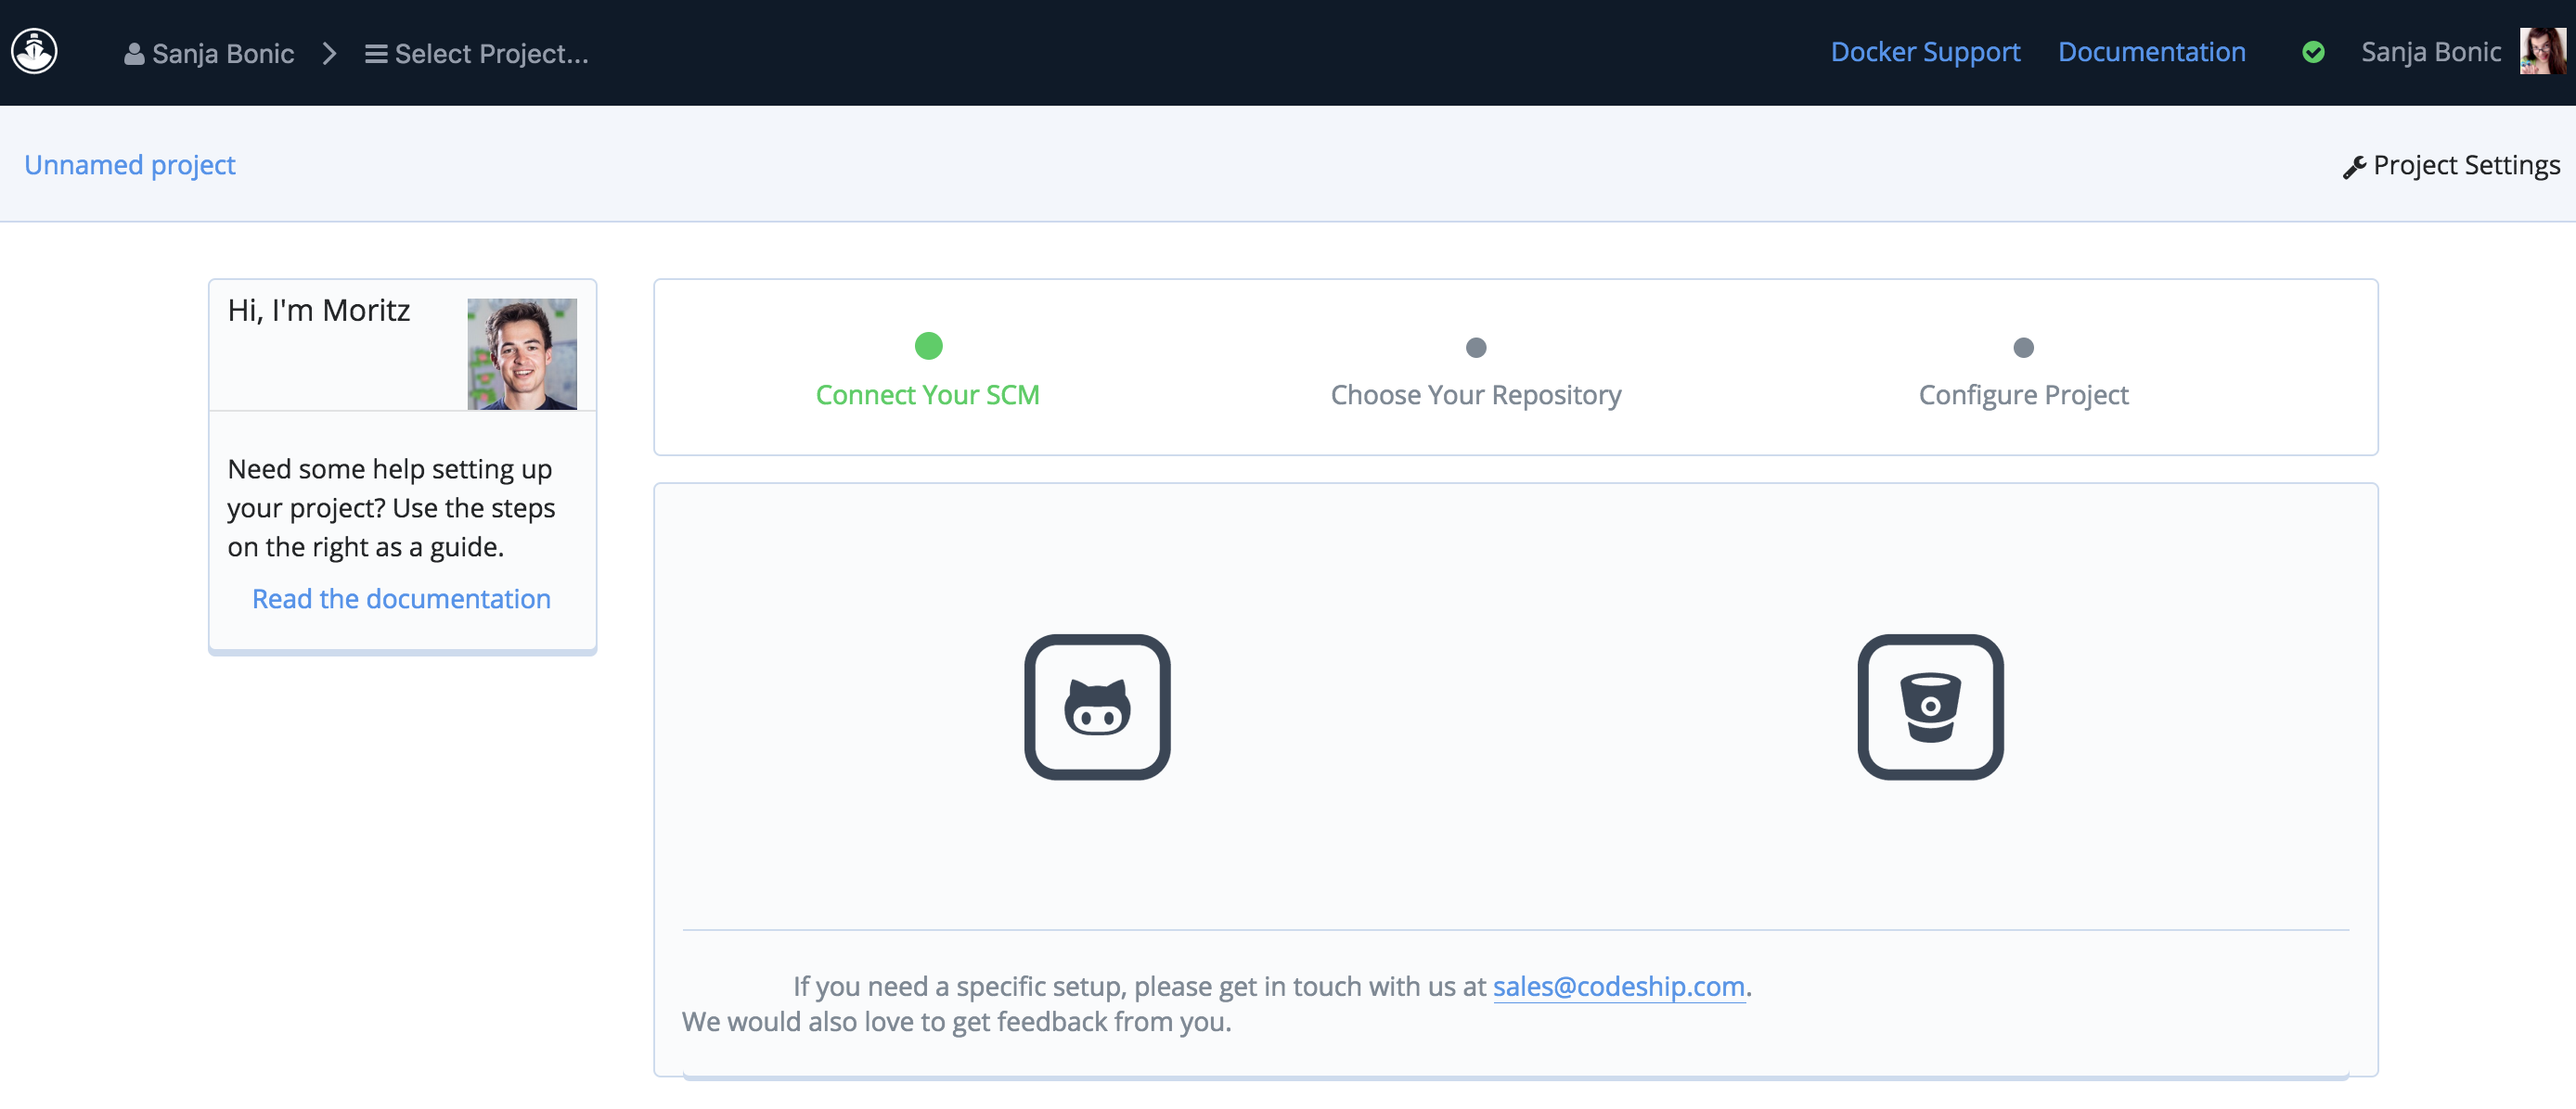
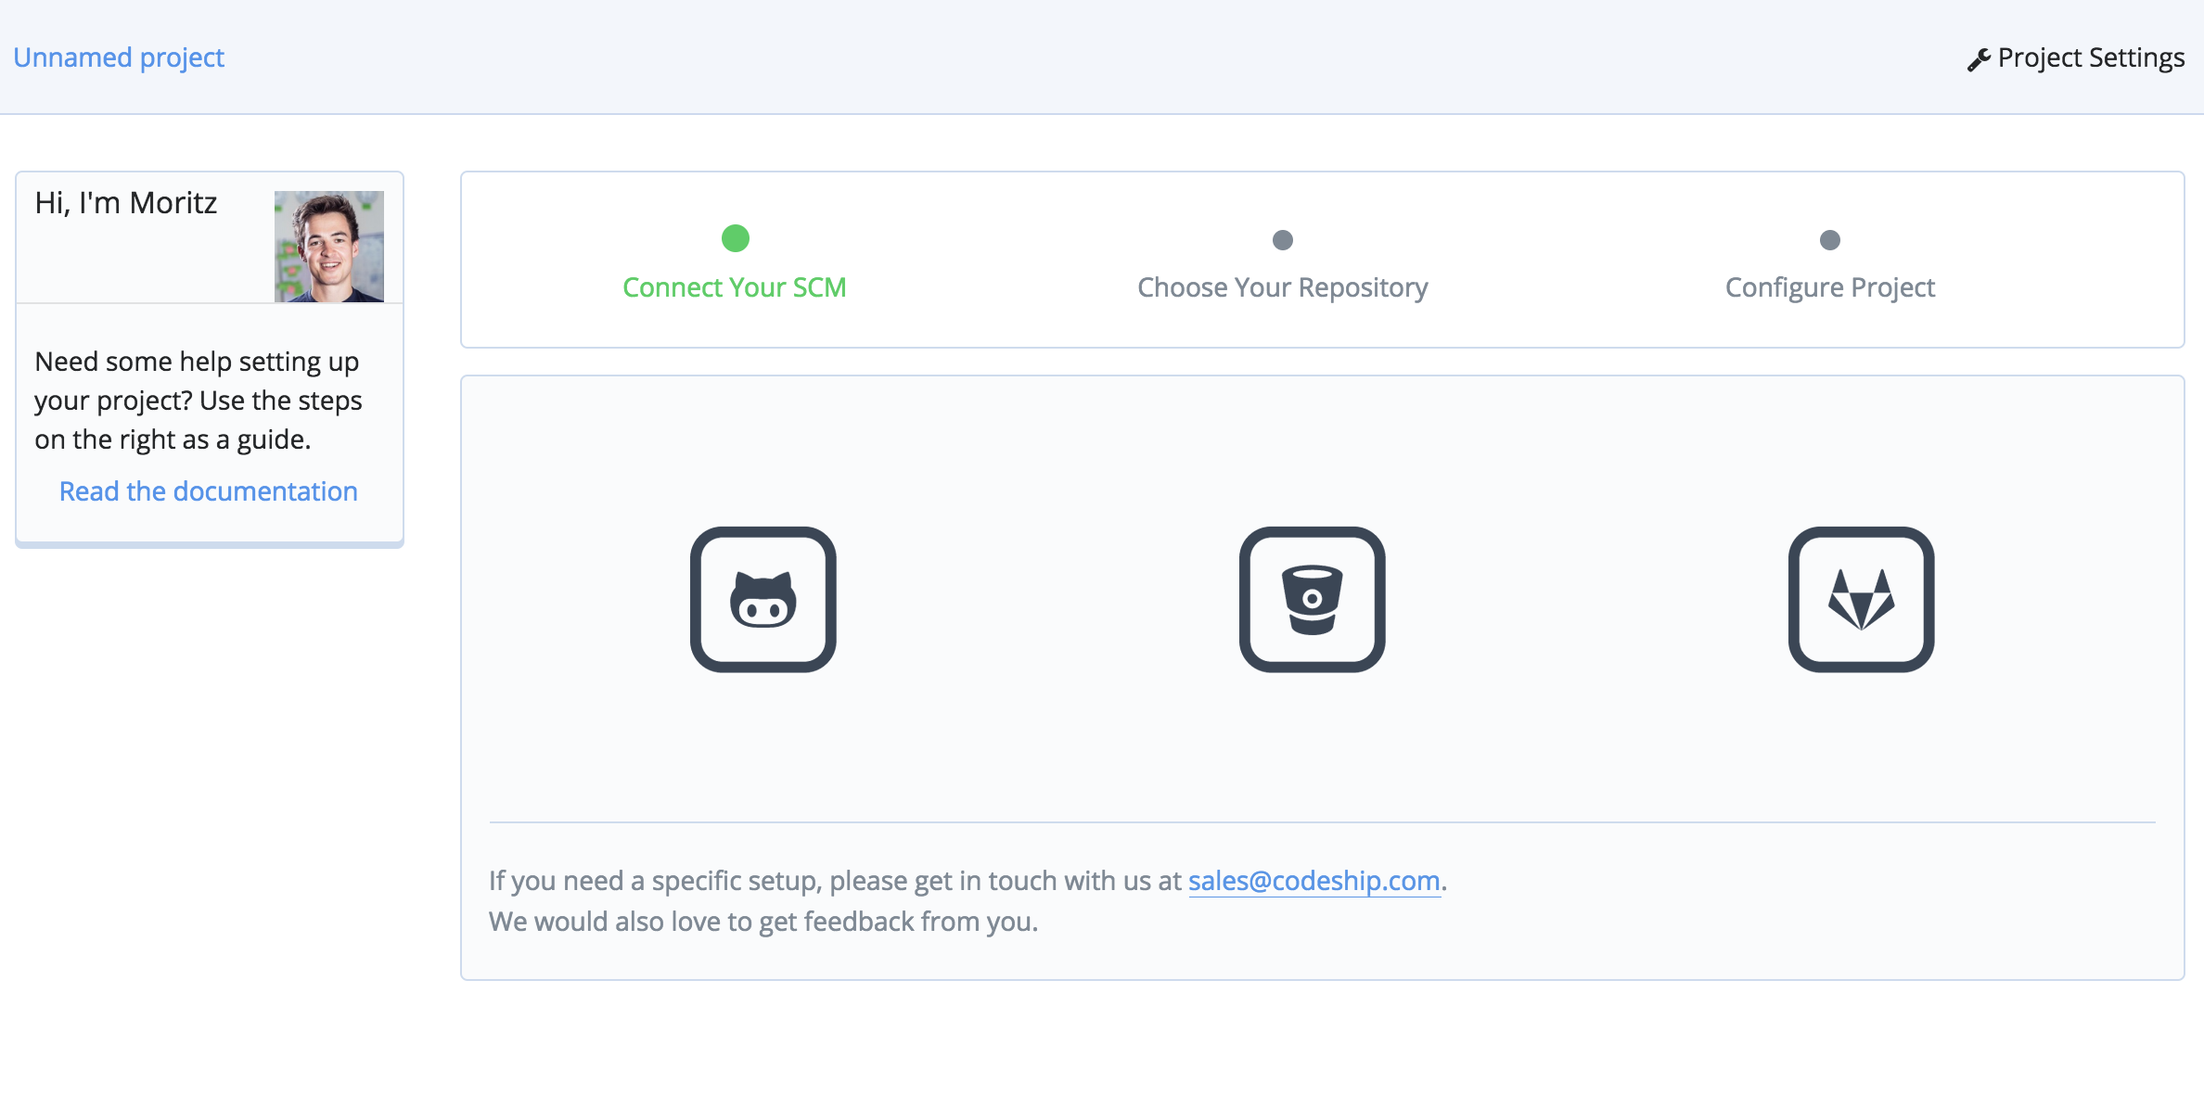
Add GitLab integration wordings

diff --git a/_general/about/security.md b/_general/about/security.md
@@ -9,14 +9,14 @@ redirect_from:
   - /security/
   - /security/security/
 ---
-We fully understand and recognize, that the security of your source code and configuration data is important, as it forms the base of your and our endeavours. Therefore we put a lot of effort and thought into providing a secure infrastructure for you to use.
+We fully understand and recognize, that the security of your source code and configuration data is important, as it forms the base of your and our endeavors. Therefore we put a lot of effort and thought into providing a secure infrastructure for you to use.
 
 * include a table of contents
 {:toc}
 
 ## System Security
 
-For every project you add to the Codeship we create an SSH Key that is itself encrypted strongly and only decrypted shortly before being used in the build virtual machine. For every build we start a new and clean virtual machine. All changes you make (including file system changes) are stored in a ramdisk which is removed as soon as your build finishes (tests and deployment). None of your data is ever stored on any harddrive on our build servers.
+For every project you add to Codeship we create an SSH Key that is itself encrypted strongly and only decrypted shortly before being used in the build virtual machine. For every build we start a new and clean virtual machine. All changes you make (including file system changes) are stored in a ramdisk which is removed as soon as your build finishes (tests and deployment). None of your data is ever stored on any hard drive on our build servers.
 
 All communication between your browser and our website is SSL encrypted, as is all communication to our Openredis queue. All communication to the build virtual machines is done over SSH.
 
@@ -26,7 +26,7 @@ Unless you want them to. We will never read your code if not explicitly requeste
 
 ## Authorization for your source code provider
 
-To run your tests, we need to check out your code from your source code provider. Currently we support GitHub and Bitbucket but others will follow. You can sign up for the Codeship via Email as well but as soon as you connect a repository with your Codeship account you are telling your source code provider that you allow us to check out your private repositories.
+To run your tests, we need to check out your code from your source code provider. Currently we support GitHub, GitLab, and Bitbucket. You can sign up for the Codeship via Email as well but as soon as you connect a repository with your Codeship account you are telling your source code provider that you allow us to check out your private repositories.
 
 You can revoke permission in your source code provider settings and by removing the Codeship's deploy keys and service hooks from your projects' configuration pages.
 

diff --git a/_classic/continuous-deployment/push-to-remote-repository.md b/_classic/continuous-deployment/push-to-remote-repository.md
@@ -12,9 +12,9 @@ redirect_from:
 
 If you want to deploy your application by doing a `git push` to a remote repository please follow these steps:
 
-1. Remove the Codeship deploy key from the GitHub or BitBucket repository. You'll find this option in the repository settings on the respective service.
-2. Add the public key from your projects _General_ settings page to a so called [machine user](https://developer.github.com/guides/managing-deploy-keys/#machine-users) and provide this user with access to your repository. (Note that though we link to a GitHub documentation page, the process will work on BitBucket as well.)
-3. Add a _script based deployment_ to your project and include the commands from [deployments/git-push.sh](https://github.com/codeship/scripts/blob/master/deployments/git_push.sh).
+1. Remove the Codeship deploy key from the repository. You'll find this option in the repository settings on the respective service.
+2. Add the public key from your projects _General_ settings page to a so called [machine user](https://developer.github.com/guides/managing-deploy-keys/#machine-users) and provide this user with access to your repository. (Note that though we link to a GitHub documentation page, the process will work elsewhere as well.)
+3. Add a _script-based deployment_ to your project and include the commands from [deployments/git-push.sh](https://github.com/codeship/scripts/blob/master/deployments/git_push.sh).
 4. You might want to modify the commit message to include either of the following four strings if you push to a remote repository which is configured on Codeship as well, as the push would trigger a new build otherwise:
 
 * `--skip-ci`

diff --git a/classic/index.md b/classic/index.md
@@ -12,7 +12,7 @@ Welcome to Codeship's Classic Infrastructure with pre-configured VMs where we ta
 The screenshot below shows the initial [dashboard](https://app.codeship.com/projects) after logging in for the first time.
 ![new project screen]({{ site.baseurl }}/images/continuous-integration/1welcome.png)
 
-You can choose whether you want to import from GitHub or Bitbucket repository. Afterwards, you can enter a set of commands and/or choose some basic pre-configured commands according to your stack.
+You can choose whether you want to import from a GitHub, GitLab, or Bitbucket repository. Afterwards, you can enter a set of commands and/or choose some basic pre-configured commands according to your stack.
 ![configure commands]({{ site.baseurl }}/images/continuous-integration/2commands.png)
 
 For significant speed improvements, you will have the option to check out our [ParallelCI trial](https://codeship.com/features/parallelci) in order to run tests in parallel and deploy faster. Watch this [video](https://www.youtube.com/watch?v=E7ujcuGtRjo) to find out more about ParallelCI.

diff --git a/docker/index.md b/docker/index.md
@@ -12,7 +12,7 @@ Welcome to Codeship's Docker Infrastructure, the new way to run your tests on Co
 Codeship's Docker based infrastructure is available to customers on a invite only basis at the moment. Please see the [Docker feature page](http://pages.codeship.com/docker) for information and to request access.
 
 **Note**
-- Codeship's Docker Infrastructure supports git based repositories on GitHub and BitBucket. **Mercurial based repositories on BitBucket are not currently supported.**
+- Codeship's Docker Infrastructure supports git-based repositories on GitHub, GitLab, and BitBucket. **Mercurial based repositories on BitBucket are not currently supported.**
 </div>
 
 _Docker Infrastructure_ implements two main functions:

diff --git a/_general/projects/builds-are-not-triggered.md b/_general/projects/builds-are-not-triggered.md
@@ -6,13 +6,14 @@ tags:
   - build error
   - github
   - bitbucket
+  - gitlab
 category: Projects
 redirect_from:
   - /troubleshooting/builds-are-not-triggered/
   - /faq/builds-are-not-triggered/
 ---
 
-Builds on Codeship are triggered via a webhook from GitHub or Bitbucket. We add this hook to your repository when you configure the project on Codeship, but sometimes those settings get out of sync.
+Builds on Codeship are triggered via a webhook from your VCS. We add this hook to your repository when you configure the project on Codeship, but sometimes those settings get out of sync.
 
 That's why we show the status of the webhook configuration on the _General_ page of your project settings.
 

diff --git a/_general/about/other-scm.md b/_general/about/other-scm.md
@@ -1,5 +1,5 @@
 ---
-title: Custom SCM providers
+title: Custom SCM/VCS providers
 layout: page
 tags:
   - faq
@@ -9,6 +9,6 @@ category: About
 redirect_from:
   - /faq/other-scm/
 ---
-Codeship currently only supports [GitHub](https://github.com/) and [BitBucket](https://bitbucket.org/) based repositories. While we do have plans to integrate with other providers in the future we don't have anything concrete planned at the moment.
+Codeship currently supports [GitHub](https://github.com/), [GitLab](https://gitlab.com/), and [Bitbucket](https://bitbucket.org/) based repositories.
 
 There are no plans to integrate with other SCM tools like Subversion.

diff --git a/_general/account/configure-your-avatar.md b/_general/account/configure-your-avatar.md
@@ -22,4 +22,4 @@ git config --get user.email
 git config --get user.email
 ```
 
-Note that different projects can have different email addresses configured and that GitHub / Bitbucket can have other email addresses configured for the actions you take via their interfaces.
+Note that different projects can have different email addresses configured and that your VCS can have other email addresses configured for the actions you take via their interfaces.

diff --git a/_classic/getting-started/api.md b/_classic/getting-started/api.md
@@ -10,7 +10,7 @@ redirect_from:
 ---
 
 <div class="info-block">
-  The API is currently only available for projects on our Classic Infrastructure and not available on Docker based projects.
+  The API is currently only available for projects on our Classic Infrastructure and not available on Docker-based projects.
 </div>
 
 * include a table of contents

diff --git a/_general/projects/access-to-other-repositories-fails-during-build.md b/_general/projects/access-to-other-repositories-fails-during-build.md
@@ -7,6 +7,7 @@ tags:
   - ssh key
   - github
   - bitbucket
+  - gitlab
   - private repository
 category: Projects
 redirect_from:

diff --git a/_general/projects/push-to-remote-repositories.md b/_general/projects/push-to-remote-repositories.md
@@ -6,6 +6,7 @@ tags:
   - build error
   - github
   - bitbucket
+  - gitlab
   - shallow clone
   - push
   - git
